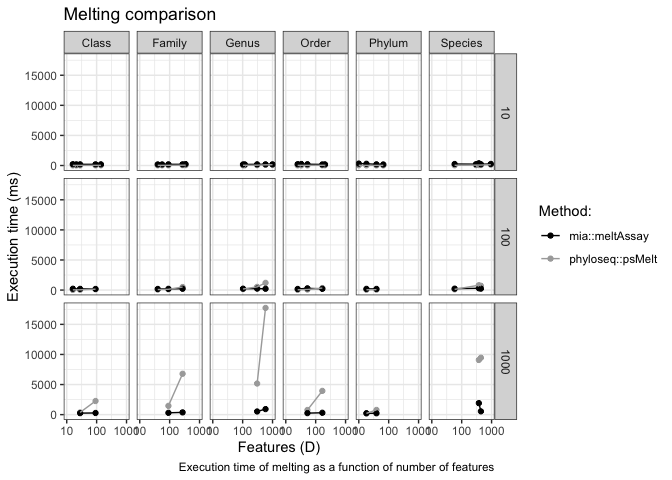
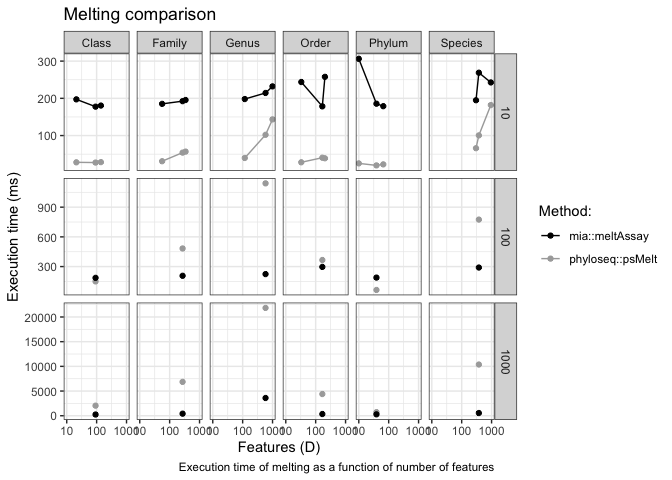
Adjust y scale of multi_exec_time_plot

diff --git a/reports/melt_benchmark.md b/reports/melt_benchmark.md
@@ -1,71 +1,9 @@
-Melting benchmark
-=================
+# Melting benchmark
 
-    ## [1] "store dimensions"
-    ## [1] "store dimensions"
-    ## [1] "store dimensions"
-    ## [1] "store dimensions"
-    ## [1] "store dimensions"
-    ## [1] "store dimensions"
-    ## [1] "store dimensions"
-    ## [1] "store dimensions"
-    ## [1] "store dimensions"
-    ## [1] "store dimensions"
-    ## [1] "store dimensions"
-    ## [1] "store dimensions"
-    ## [1] "store dimensions"
-    ## [1] "store dimensions"
-    ## [1] "store dimensions"
-    ## [1] "store dimensions"
-    ## [1] "store dimensions"
-    ## [1] "store dimensions"
-    ## [1] "store dimensions"
-    ## [1] "store dimensions"
-    ## [1] "store dimensions"
-    ## [1] "store dimensions"
-    ## [1] "store dimensions"
-    ## [1] "store dimensions"
-    ## [1] "store dimensions"
-    ## [1] "store dimensions"
-    ## [1] "store dimensions"
-    ## [1] "store dimensions"
-    ## [1] "store dimensions"
-    ## [1] "store dimensions"
-    ## [1] "store dimensions"
-    ## [1] "store dimensions"
-    ## [1] "store dimensions"
-    ## [1] "store dimensions"
-    ## [1] "store dimensions"
-    ## [1] "store dimensions"
-    ## [1] "store dimensions"
-    ## [1] "store dimensions"
-    ## [1] "store dimensions"
-    ## [1] "store dimensions"
-    ## [1] "store dimensions"
-    ## [1] "store dimensions"
-    ## [1] "store dimensions"
-    ## [1] "store dimensions"
-    ## [1] "store dimensions"
-    ## [1] "store dimensions"
-    ## [1] "store dimensions"
-    ## [1] "store dimensions"
-    ## [1] "store dimensions"
-    ## [1] "store dimensions"
-    ## [1] "store dimensions"
-    ## [1] "store dimensions"
-    ## [1] "store dimensions"
-    ## [1] "store dimensions"
-    ## [1] "store dimensions"
-    ## [1] "store dimensions"
-    ## [1] "store dimensions"
-    ## [1] "store dimensions"
+## Relative execution time by sample size
 
-Relative execution time by sample size
---------------------------------------
+![](benchmark_files/figure-markdown_strict/melt_ratio.png)
 
-![](/home/lemila/Git/Rpackages/ME/benchmarking/reports/melt_benchmark_files/figure-markdown_strict/melt_ratio-1.png)
+## Plot of execution times vs number of features for multiple combinations of taxonomic ranks and sample sizes
 
-Plot of execution times vs number of features for multiple combinations of taxonomic ranks and sample sizes
------------------------------------------------------------------------------------------------------------
-
-![](/home/lemila/Git/Rpackages/ME/benchmarking/reports/melt_benchmark_files/figure-markdown_strict/melt_multi_ex_time-1.png)
+![](benchmark_files/figure-markdown_strict/melt_multi_ex_time.png)
